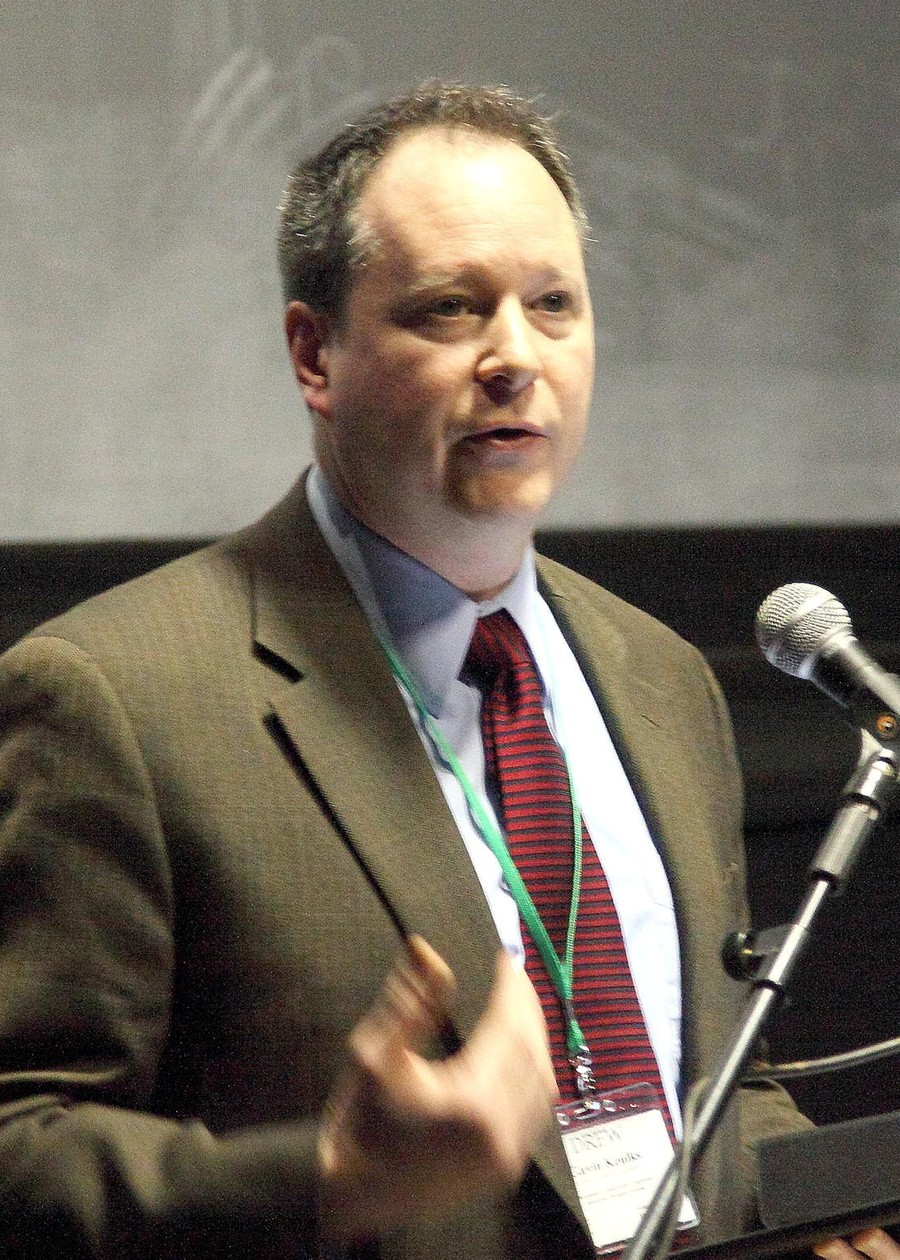
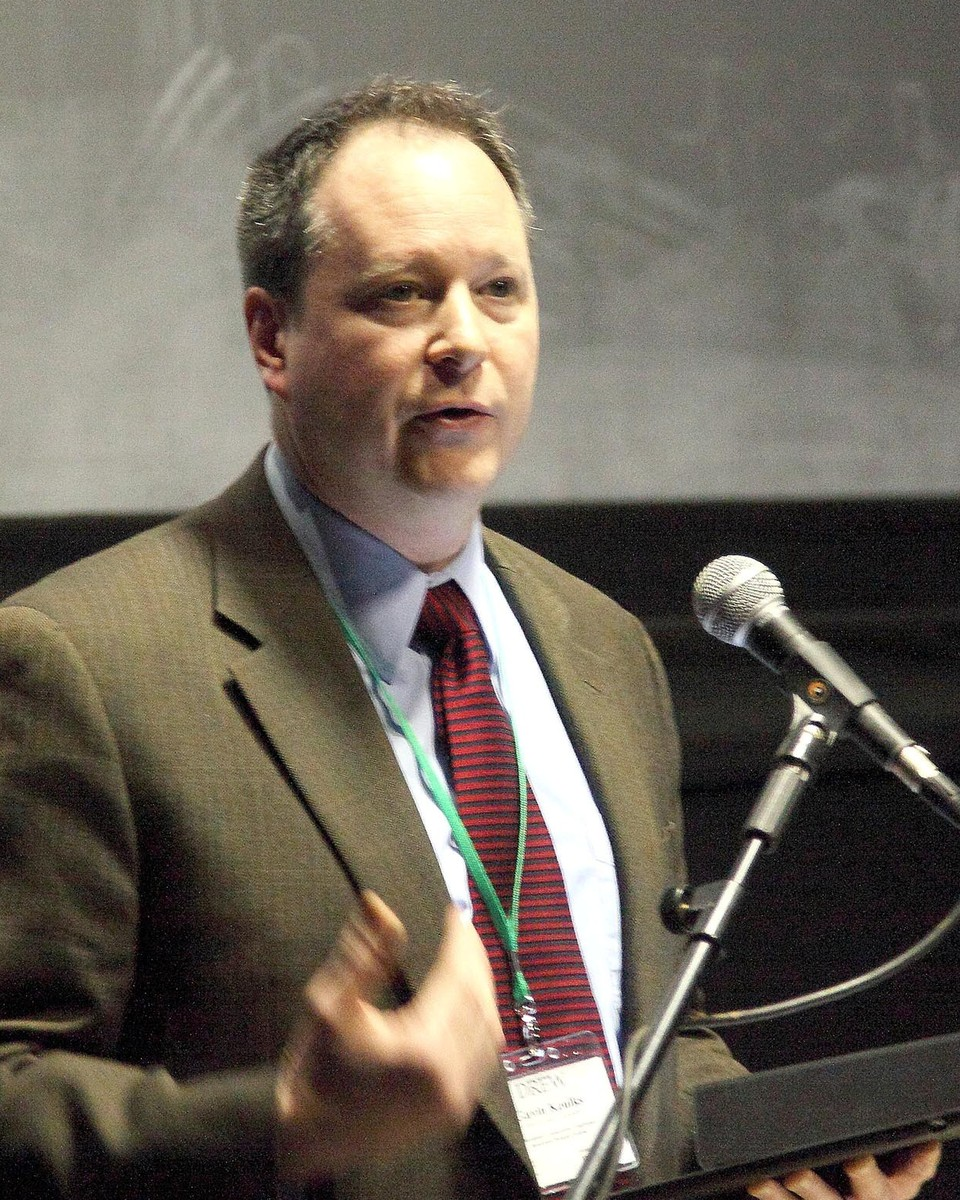
About: fill the byline, and a wider 4:5 photograph
Scratches the forced line breaks and takes the new wording.

The photograph was never far right -- text-wrap: balance was holding
every byline line about 100px short of its column, evening the rag
instead of filling it. Switching that one page to pretty moves the
longest line from 616 to 715 and halves the gap, at no cost in height.

The figure then widens 13rem to 15rem, and is re-cropped 4:5 rather
than 5:7. The ratio is what makes the widening affordable: at 5:7 the
extra width would have cost 45px of height and pushed the space beside
the picture from 123px to 168. At 4:5 it costs 9px, so the gap falls
from 200px to 69 while the air stays put at 132.

The wider crop is still clear of the credit, which sits below y=1715
against a crop bottom of 1590.

diff --git a/AGENTS.md b/AGENTS.md
@@ -96,6 +96,10 @@ Positioning: understate the professorship, lead with writer/scholar.
   photograph's own background into the frame, so it reads as a light shape on
   bone and a *pale* one on near-black — it inverts between themes where a
   rectangle sits correctly in both.
+- **`text-wrap: balance` holds lines short of the column** — it evens the rag
+  instead of filling, so About's byline stopped ~100px early and read as the
+  photograph sitting too far right. Where a byline shares its row with a figure,
+  use `pretty`. Measure the longest rendered line, not the box.
 - **`sizes` must match the CSS width, not a guess.** The Creative Work figure
   declared `40vw` below 46rem while its CSS width is `13rem` at every width, so
   phones were served a 336w file for a 416-device-pixel slot.
